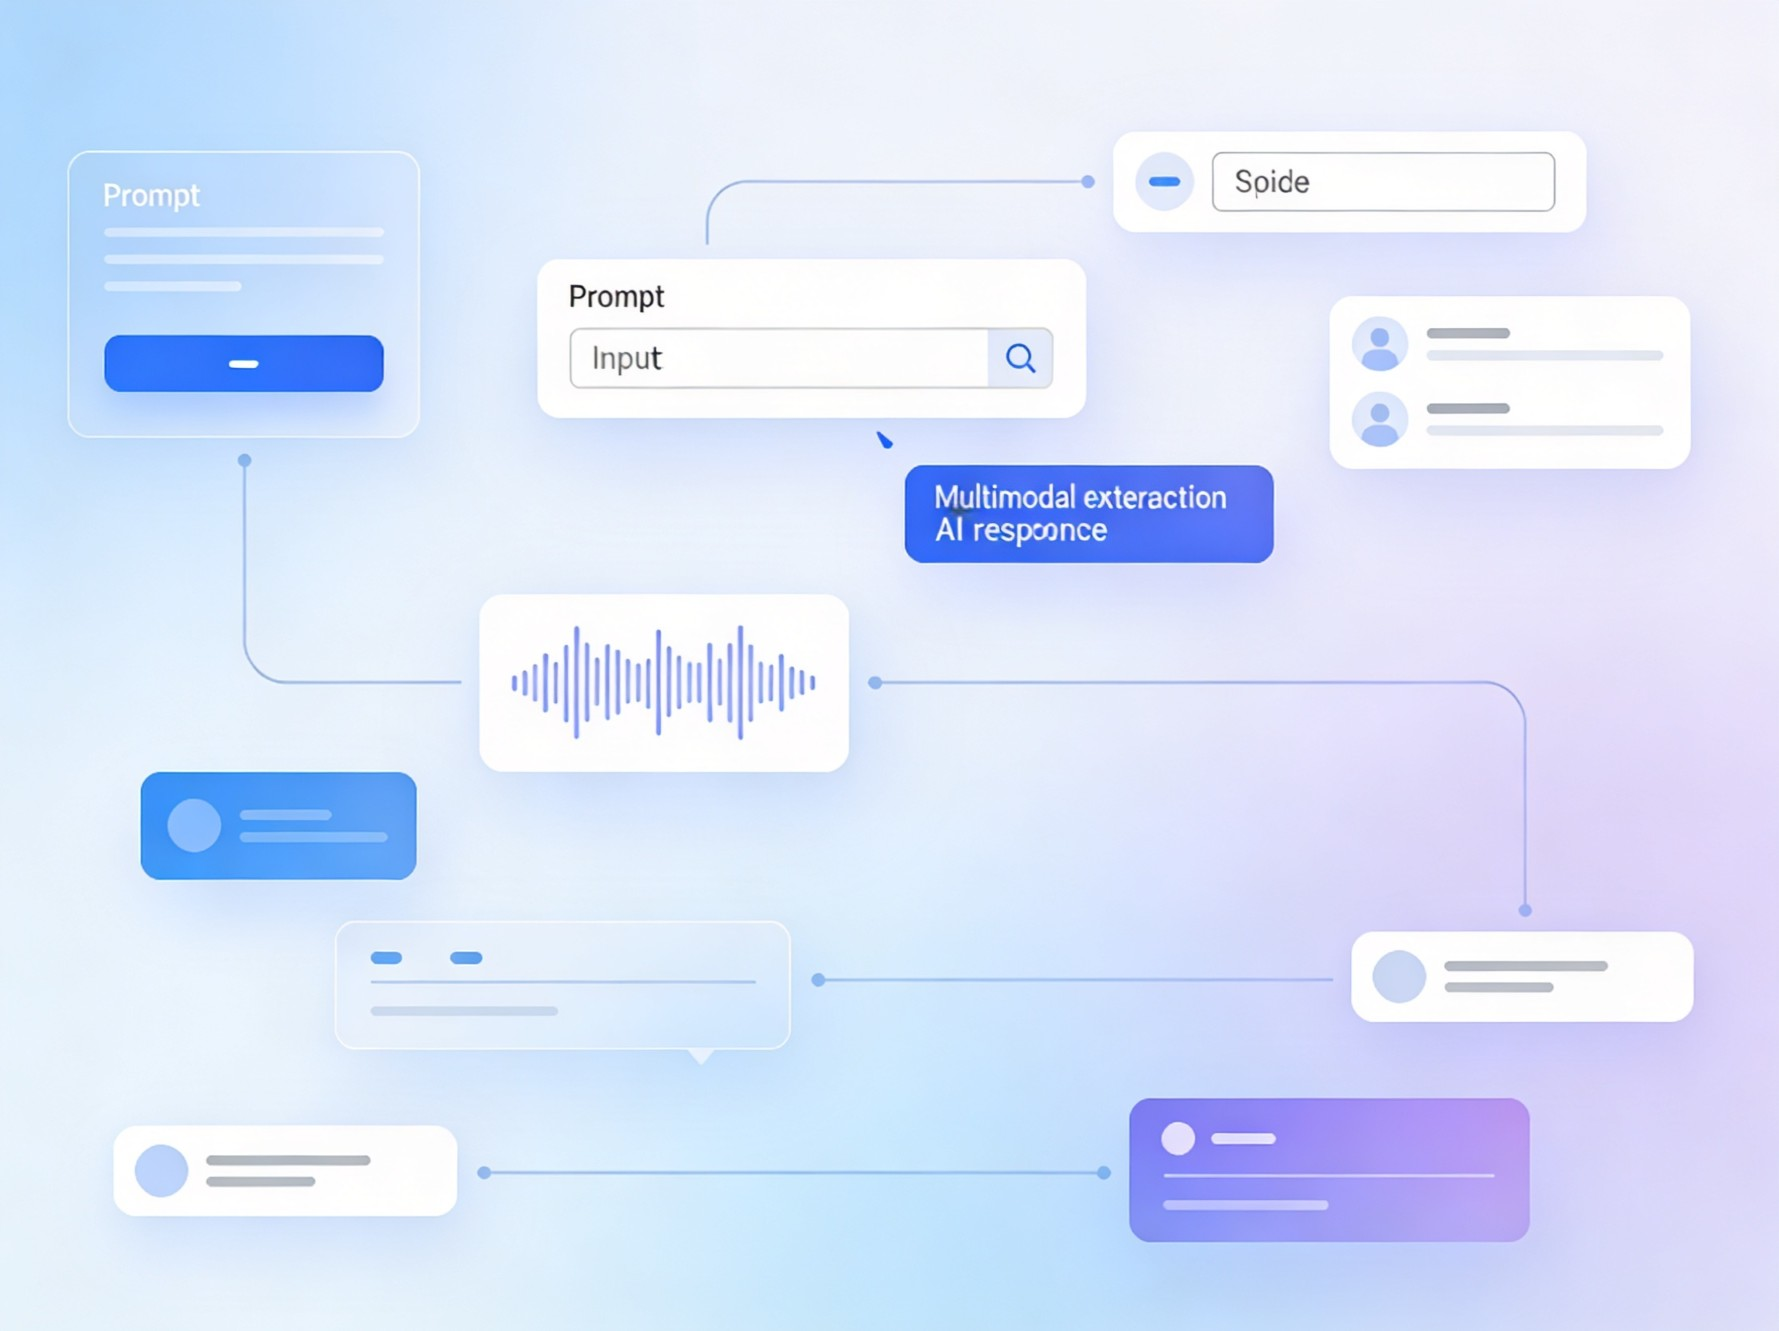
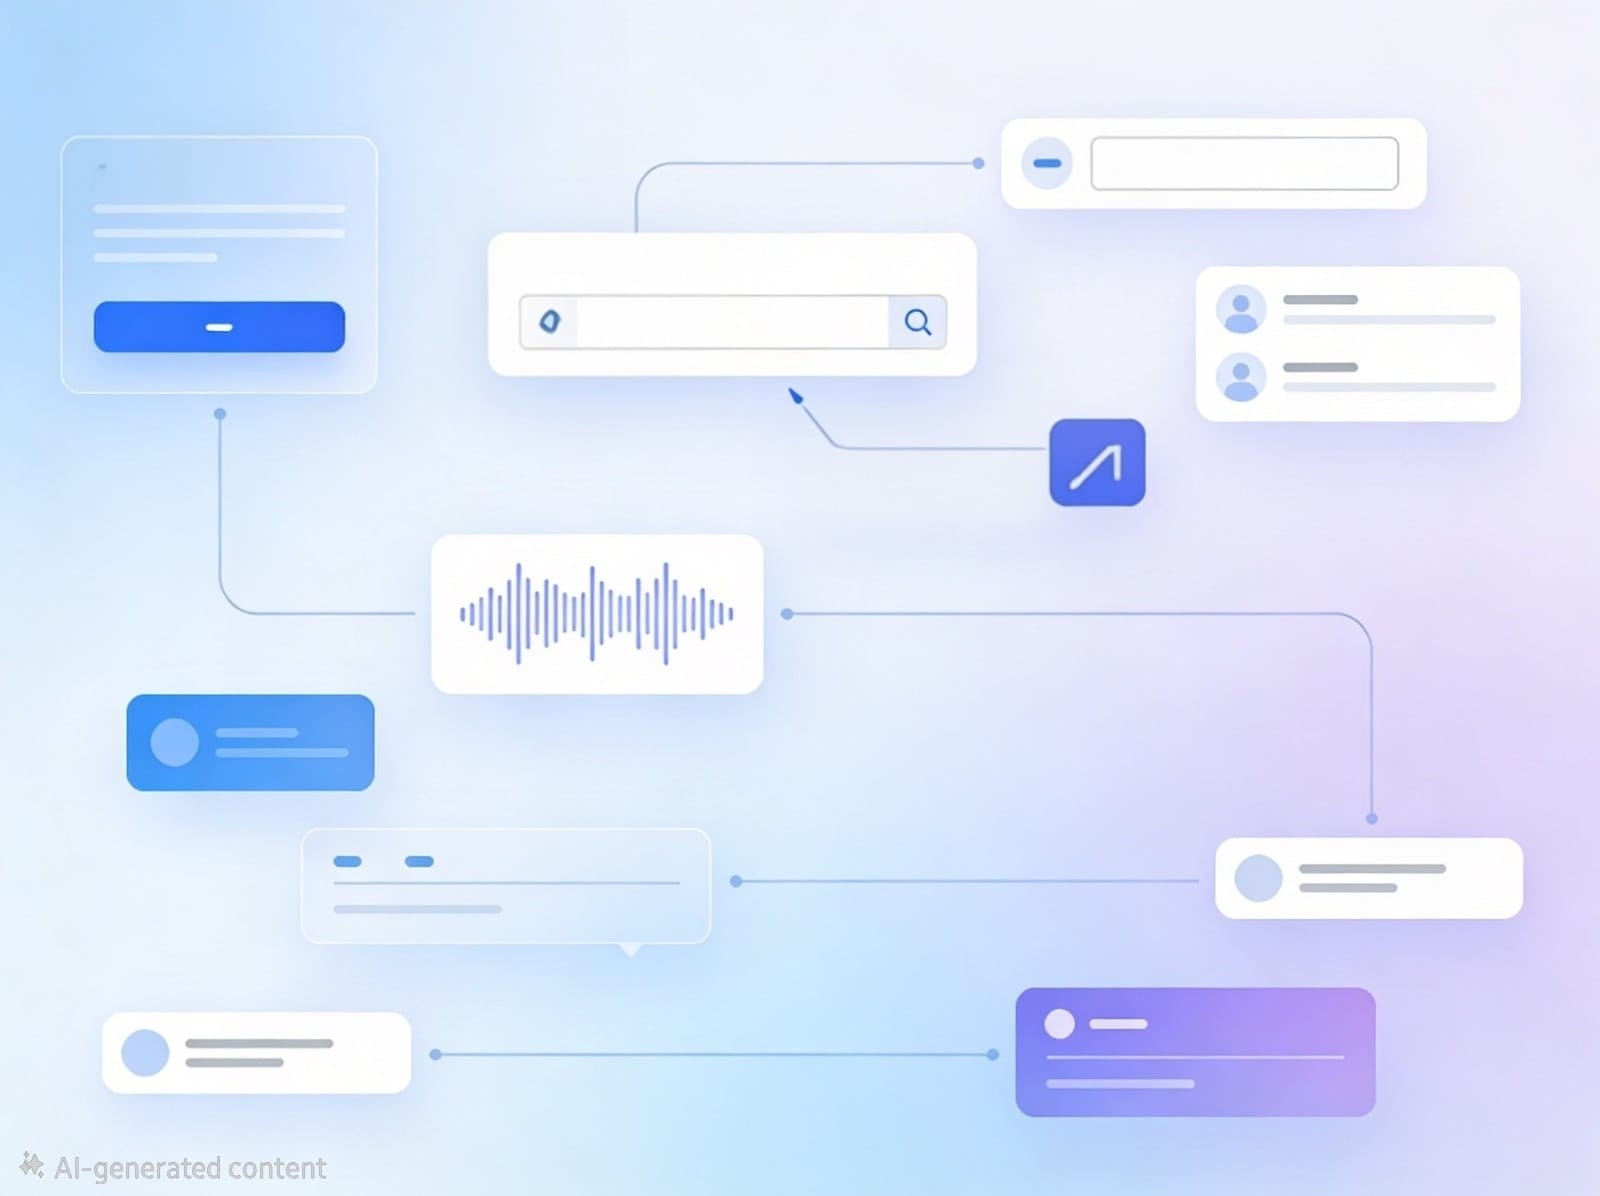
feat: implement Admin CMS dashboard for managing project data and media assets

diff --git a/src/components/AdminCMS.jsx b/src/components/AdminCMS.jsx
@@ -56,6 +56,32 @@ function AdminCMS() {
     }
   };
 
+  const moveProject = async (index, direction) => {
+    const newProjects = [...projects];
+    if (direction === 'up' && index > 0) {
+      [newProjects[index - 1], newProjects[index]] = [newProjects[index], newProjects[index - 1]];
+    } else if (direction === 'down' && index < newProjects.length - 1) {
+      [newProjects[index + 1], newProjects[index]] = [newProjects[index], newProjects[index + 1]];
+    } else {
+      return;
+    }
+    
+    setProjects(newProjects);
+    
+    try {
+      const response = await fetch('http://localhost:3001/api/projects/reorder', {
+        method: 'PUT',
+        headers: { 'Content-Type': 'application/json' },
+        body: JSON.stringify({ projects: newProjects })
+      });
+      if (!response.ok) {
+        setStatus('Failed to save new order');
+      }
+    } catch (err) {
+      setStatus('Failed to save new order');
+    }
+  };
+
   const startEdit = (project) => {
     setCurrentProject(project);
     setFormData({ title: project.title, detail: project.detail, tags: project.tags.join(', ') });
@@ -180,11 +206,17 @@ function AdminCMS() {
         </div>
         {status && <p className="status-message">{status}</p>}
         <div className="project-list-admin">
-          {projects.map(p => (
+          {projects.map((p, idx) => (
             <div key={p.id} className="project-list-item">
-              <div className="project-list-info">
-                <strong>{p.title}</strong>
-                <p>{p.detail}</p>
+              <div style={{ display: 'flex', alignItems: 'center', gap: '16px' }}>
+                <div className="block-controls">
+                  <button type="button" onClick={() => moveProject(idx, 'up')} disabled={idx === 0}>▲</button>
+                  <button type="button" onClick={() => moveProject(idx, 'down')} disabled={idx === projects.length - 1}>▼</button>
+                </div>
+                <div className="project-list-info">
+                  <strong>{p.title}</strong>
+                  <p>{p.detail}</p>
+                </div>
               </div>
               <div className="project-list-actions">
                 <button className="action-btn edit" onClick={() => startEdit(p)}>Edit</button>

diff --git a/cms-server.js b/cms-server.js
@@ -105,6 +105,20 @@ app.post('/api/projects', upload.any(), (req, res) => {
   }
 });
 
+app.put('/api/projects/reorder', express.json(), (req, res) => {
+  try {
+    const { projects } = req.body;
+    if (!projects || !Array.isArray(projects)) {
+      return res.status(400).json({ success: false, message: 'Invalid projects data' });
+    }
+    writeProjects(projects);
+    res.status(200).json({ success: true, message: 'Projects reordered successfully' });
+  } catch (error) {
+    console.error(error);
+    res.status(500).json({ success: false, message: 'Server error' });
+  }
+});
+
 app.put('/api/projects/:id', upload.any(), (req, res) => {
   try {
     const projectId = req.params.id;